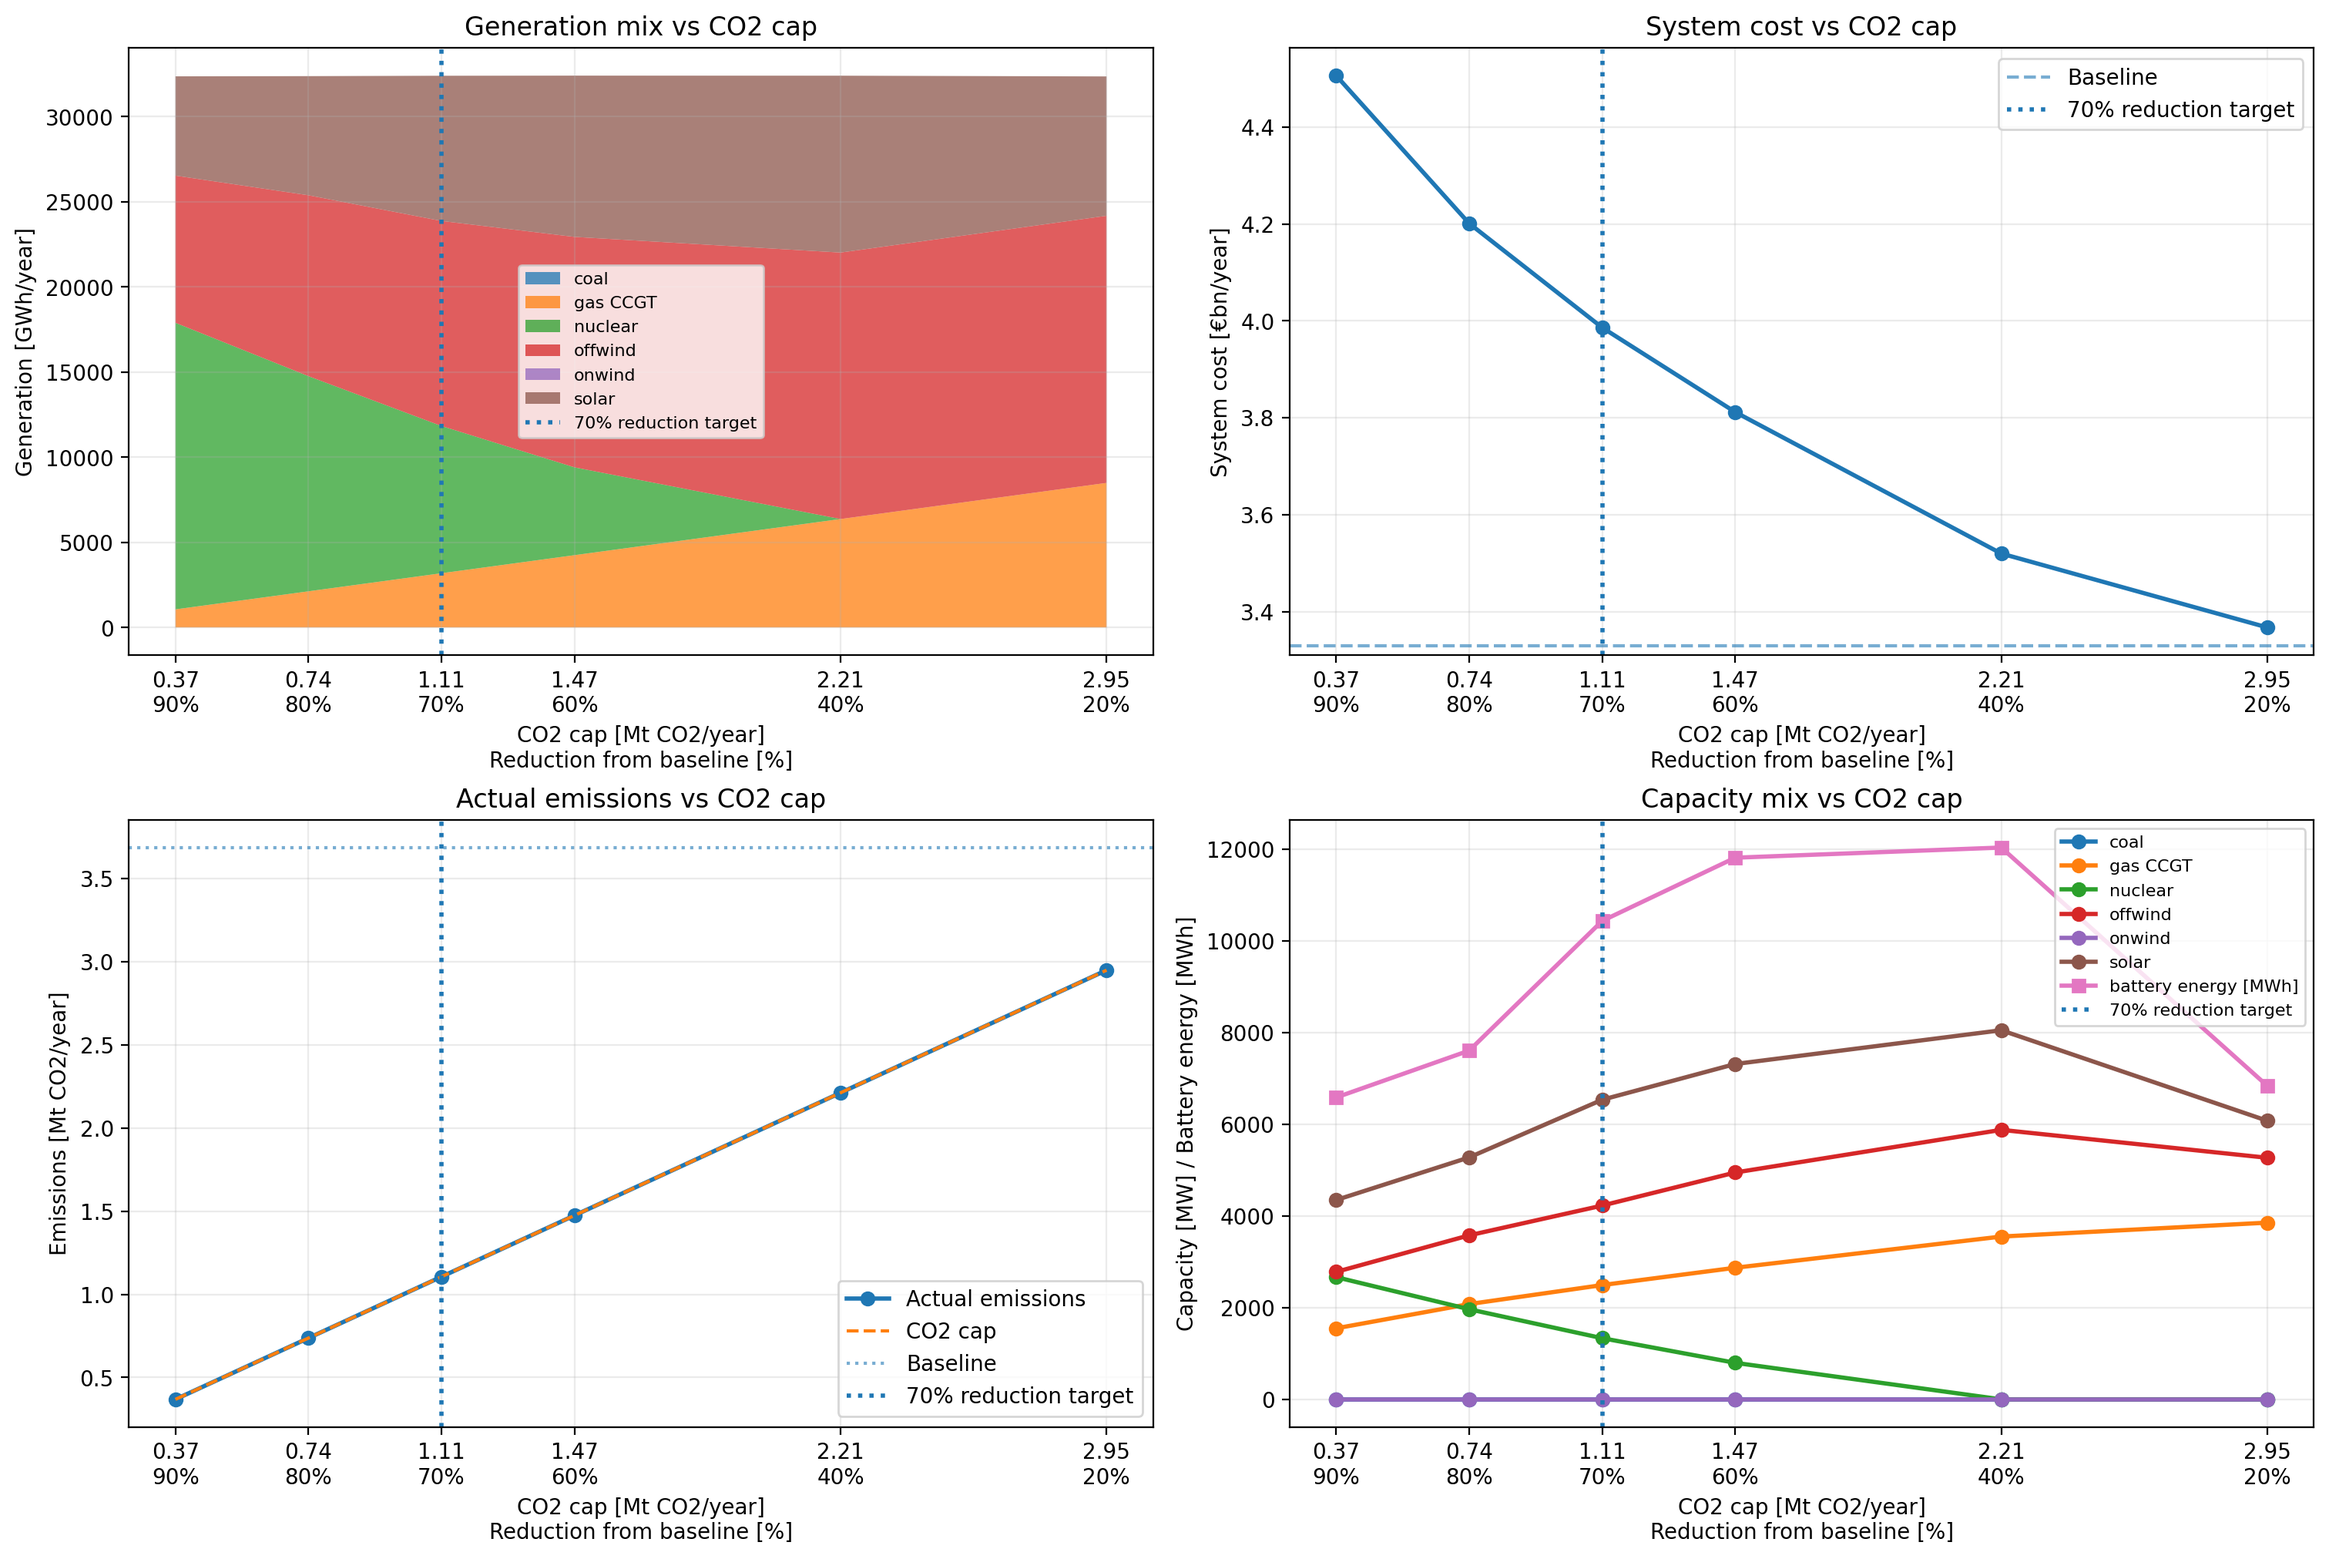
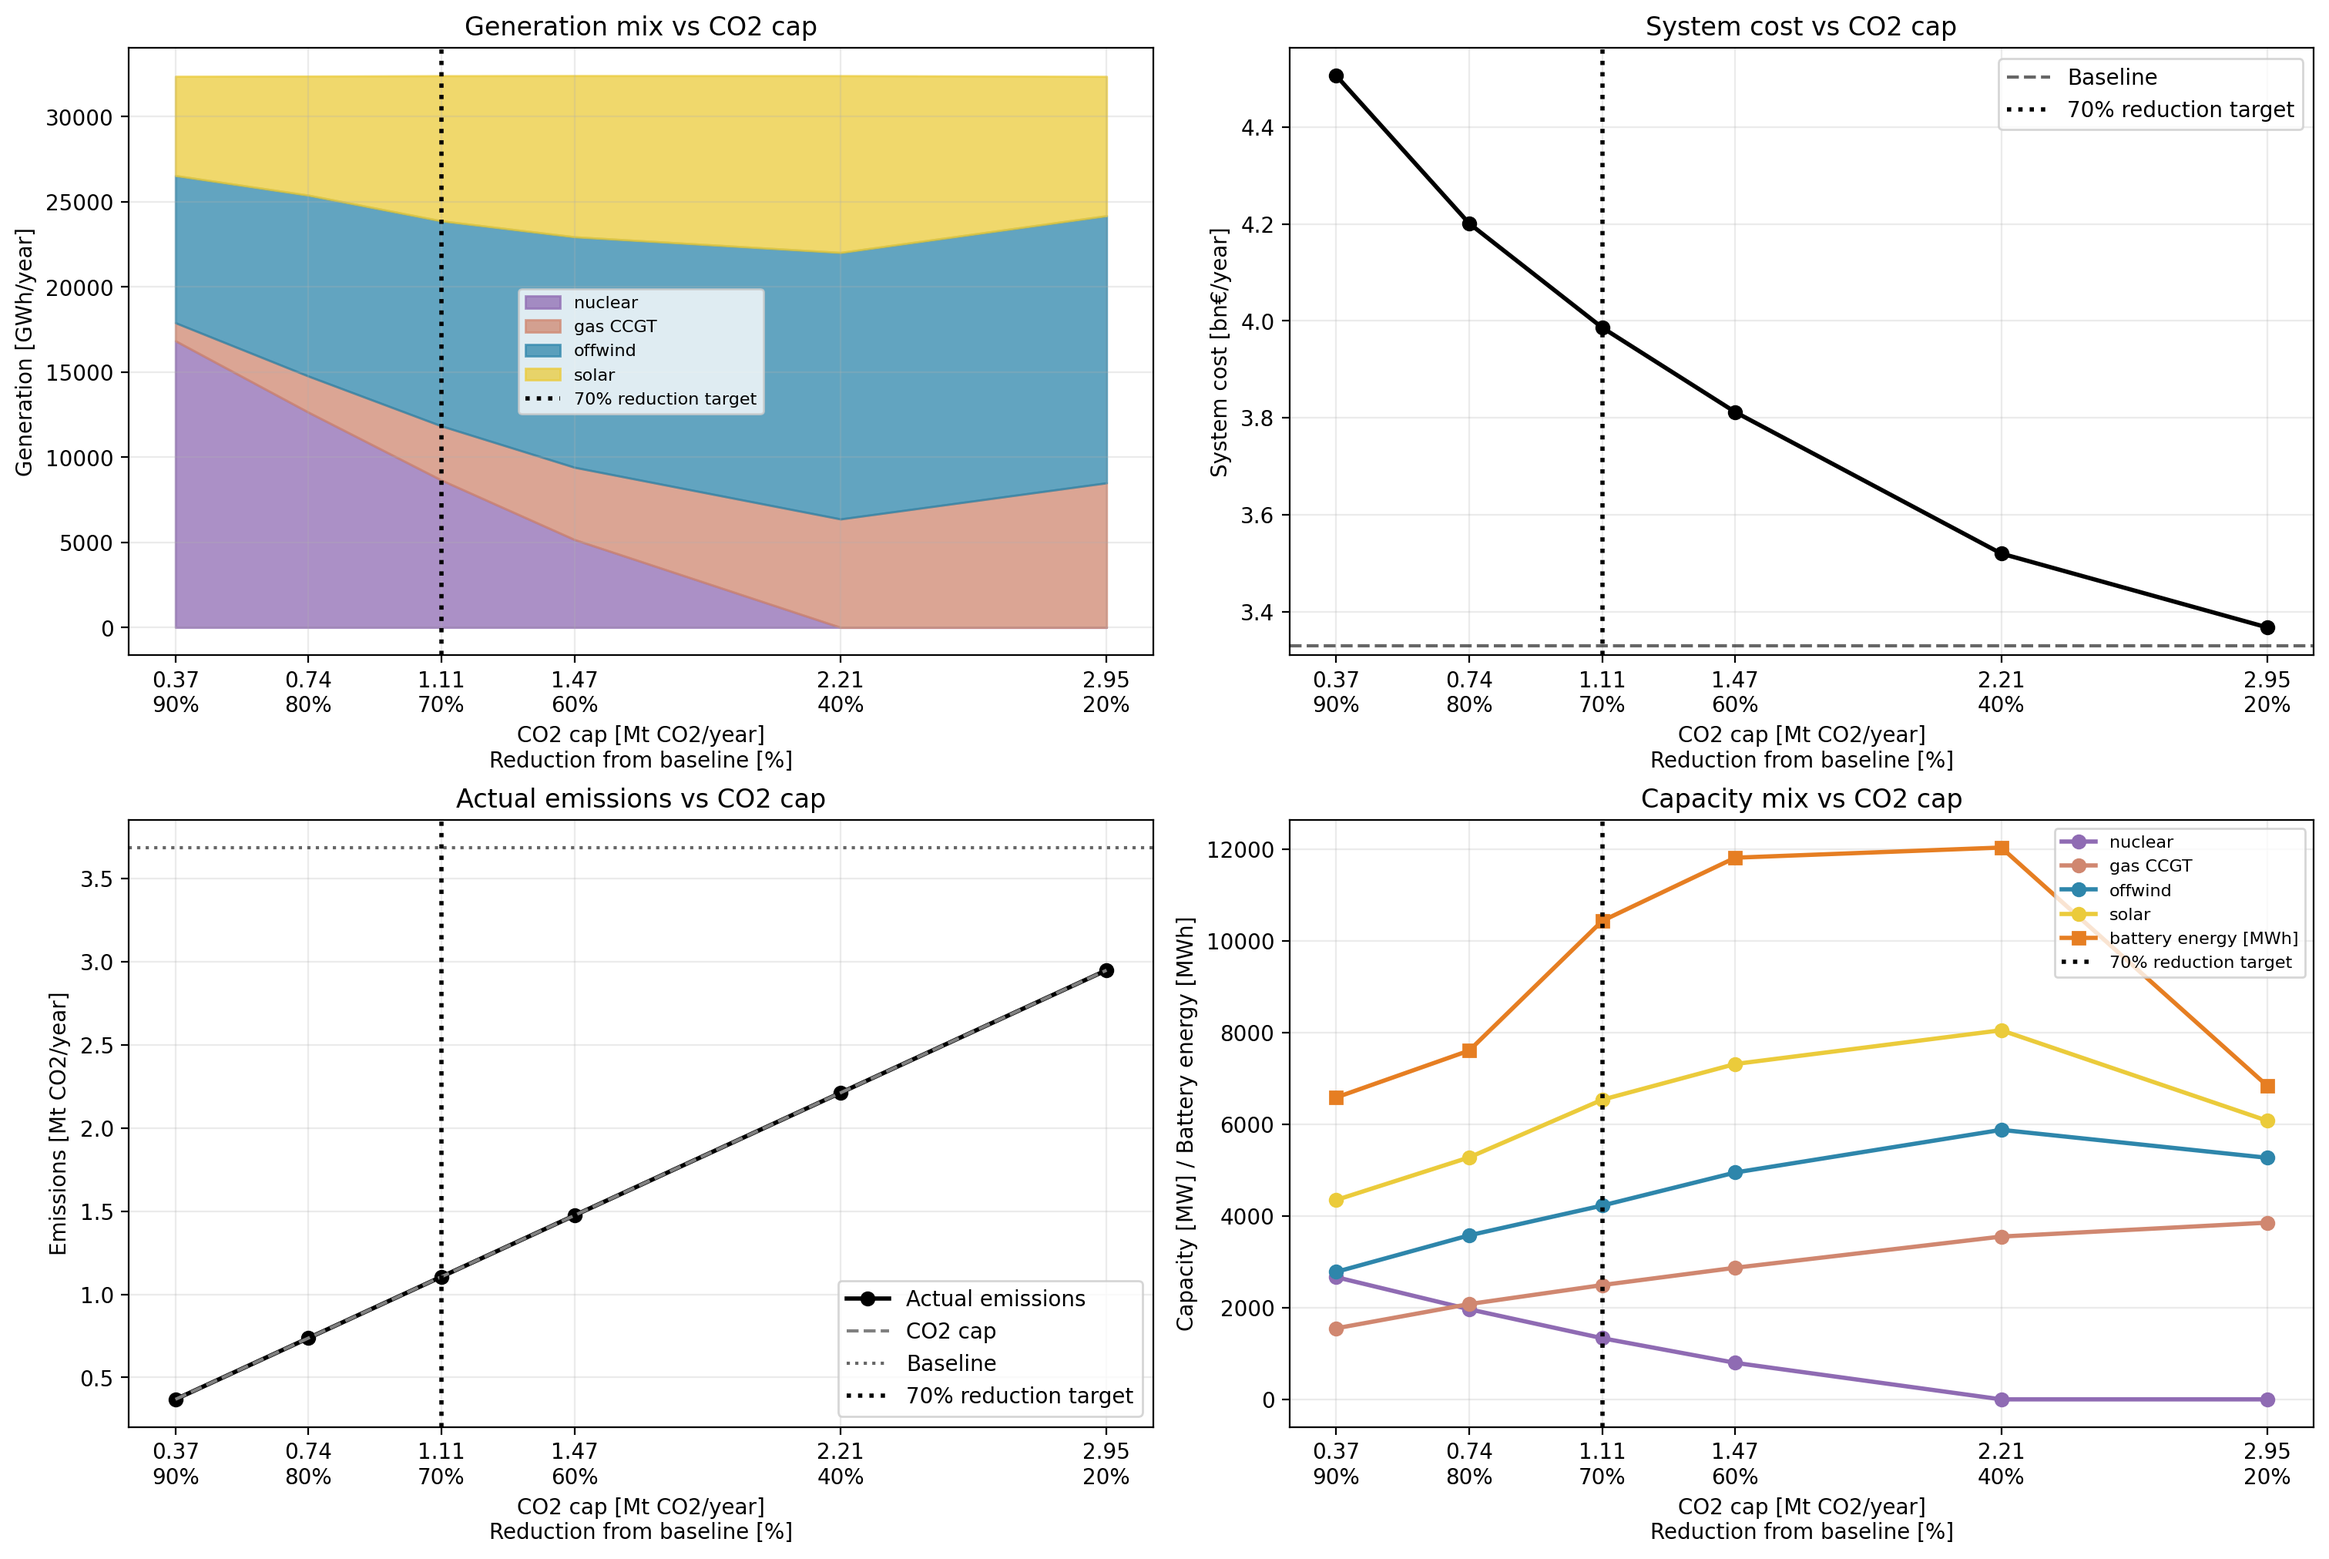
Changed colours on plots

diff --git a/analysis/analyze_co2_sensitivity.py b/analysis/analyze_co2_sensitivity.py
@@ -194,6 +194,22 @@ def carrier_order(columns):
     ]
 
 
+def get_carrier_colors(n: pypsa.Network, columns: pd.Index) -> list[str]:
+    """
+    Return colors for carriers based on n.carriers['color'].
+    """
+    fallback_color = "#999999"
+    colors = []
+
+    for carrier in columns:
+        if carrier in n.carriers.index and pd.notna(n.carriers.at[carrier, "color"]):
+            colors.append(n.carriers.at[carrier, "color"])
+        else:
+            colors.append(fallback_color)
+
+    return colors
+
+
 def plot_weekly_dispatch(
     n: pypsa.Network,
     week_start: str = "2016-01-01",
@@ -212,26 +228,36 @@ def plot_weekly_dispatch(
         return
 
     dispatch = n.generators_t.p.loc[week_snapshots].copy()
-
     carrier_dispatch = pd.DataFrame(index=dispatch.index)
 
     for carrier in n.generators.carrier.unique():
         gens = n.generators.index[n.generators.carrier == carrier]
-
         available_gens = [g for g in gens if g in dispatch.columns]
 
         if available_gens:
-            carrier_dispatch[carrier] = dispatch[available_gens].clip(lower=0).sum(axis=1)
+            carrier_dispatch[carrier] = (
+                dispatch[available_gens]
+                .clip(lower=0)
+                .sum(axis=1)
+            )
 
-    carrier_dispatch = carrier_dispatch.loc[:, carrier_dispatch.sum() > 0]
+    carrier_dispatch = carrier_dispatch.loc[:, carrier_dispatch.sum() > 1e-6]
     carrier_dispatch = carrier_dispatch[carrier_order(carrier_dispatch.columns)]
 
     if carrier_dispatch.empty:
         print("No dispatch data to plot.")
         return
 
+    colors = get_carrier_colors(n, carrier_dispatch.columns)
+
     fig, ax = plt.subplots(figsize=(13, 5))
-    carrier_dispatch.plot.area(ax=ax, stacked=True, linewidth=0)
+
+    carrier_dispatch.plot.area(
+        ax=ax,
+        stacked=True,
+        linewidth=0,
+        color=colors,
+    )
 
     ax.set_title(title)
     ax.set_ylabel("Dispatch [MW]")
@@ -241,7 +267,14 @@ def plot_weekly_dispatch(
 
     plt.tight_layout()
 
-    filename = title.lower().replace(" ", "_").replace("%", "pct").replace(".", "") + ".png"
+    filename = (
+        title.lower()
+        .replace(" ", "_")
+        .replace("%", "pct")
+        .replace(".", "")
+        + ".png"
+    )
+
     fig.savefig(output_dir / filename, dpi=200, bbox_inches="tight")
     plt.close(fig)
 
@@ -391,36 +424,54 @@ def run_co2_sensitivity_analysis(
     return results_df, cost_data, n_baseline
 
 
-def plot_co2_sensitivity(results_df: pd.DataFrame, output_dir: Path = OUTPUT_DIR):
+def plot_co2_sensitivity(
+    results_df: pd.DataFrame,
+    n_baseline: pypsa.Network,
+    output_dir: Path = OUTPUT_DIR,
+):
+    output_dir = Path(output_dir)
+    output_dir.mkdir(parents=True, exist_ok=True)
+
     plot_df = results_df[np.isfinite(results_df["co2_cap_mt"])].copy()
 
-    # Add reduction labels
-    plot_df["co2_reduction_pct"] = (1 - plot_df["co2_cap_fraction"]) * 100
+    plot_df["co2_reduction_pct"] = (
+        1 - plot_df["co2_cap_fraction"]
+    ) * 100
 
     plot_df = plot_df.sort_values("co2_cap_mt")
 
     baseline = results_df[results_df["co2_cap_fraction"] == 1.0].iloc[0]
 
-    target_fraction = 0.30   # 70% reduction means 30% of baseline emissions remain
+    target_fraction = 0.30
     target_cap_mt = baseline["actual_emissions_mt"] * target_fraction
 
-    fig, axes = plt.subplots(2, 2, figsize=(15, 10), constrained_layout=True)
+    fig, axes = plt.subplots(
+        2,
+        2,
+        figsize=(15, 10),
+        constrained_layout=True,
+    )
 
     def format_x_axis(ax):
         ax.set_xlabel("CO2 cap [Mt CO2/year]\nReduction from baseline [%]")
+
         ticks = plot_df["co2_cap_mt"].values
         labels = [
             f"{cap:.2f}\n{red:.0f}%"
-            for cap, red in zip(plot_df["co2_cap_mt"], plot_df["co2_reduction_pct"])
+            for cap, red in zip(
+                plot_df["co2_cap_mt"],
+                plot_df["co2_reduction_pct"],
+            )
         ]
+
         ax.set_xticks(ticks)
         ax.set_xticklabels(labels, rotation=0)
 
-        # 70% reduction target line
         ax.axvline(
             target_cap_mt,
             linestyle=":",
             linewidth=2,
+            color="black",
             label="70% reduction target",
         )
 
@@ -434,11 +485,27 @@ def plot_co2_sensitivity(results_df: pd.DataFrame, output_dir: Path = OUTPUT_DIR
         if c.startswith("generation_") and c.endswith("_mwh")
     ]
 
+    generation_carriers = [
+        c.replace("generation_", "").replace("_mwh", "")
+        for c in generation_cols
+    ]
+
+    generation_carriers = carrier_order(generation_carriers)
+
     bottom = np.zeros(len(plot_df))
 
-    for col in sorted(generation_cols):
-        carrier = col.replace("generation_", "").replace("_mwh", "")
+    for carrier in generation_carriers:
+        col = f"generation_{carrier}_mwh"
+
+        if col not in plot_df.columns:
+            continue
+
         values = plot_df[col].fillna(0).values / 1000
+
+        if np.all(values <= 1e-6):
+            continue
+
+        color = get_carrier_colors(n_baseline, pd.Index([carrier]))[0]
 
         ax.fill_between(
             plot_df["co2_cap_mt"],
@@ -446,6 +513,7 @@ def plot_co2_sensitivity(results_df: pd.DataFrame, output_dir: Path = OUTPUT_DIR
             bottom + values,
             alpha=0.75,
             label=carrier,
+            color=color,
         )
 
         bottom += values
@@ -466,17 +534,19 @@ def plot_co2_sensitivity(results_df: pd.DataFrame, output_dir: Path = OUTPUT_DIR
         plot_df["system_cost_eur"] / 1e9,
         marker="o",
         linewidth=2,
+        color="black",
     )
 
     ax.axhline(
         baseline["system_cost_eur"] / 1e9,
         linestyle="--",
         alpha=0.6,
+        color="black",
         label="Baseline",
     )
 
     ax.set_title("System cost vs CO2 cap")
-    ax.set_ylabel("System cost [€bn/year]")
+    ax.set_ylabel("System cost [bn€/year]")
     ax.grid(alpha=0.25)
     format_x_axis(ax)
     ax.legend()
@@ -491,6 +561,7 @@ def plot_co2_sensitivity(results_df: pd.DataFrame, output_dir: Path = OUTPUT_DIR
         plot_df["actual_emissions_mt"],
         marker="o",
         linewidth=2,
+        color="black",
         label="Actual emissions",
     )
 
@@ -498,6 +569,7 @@ def plot_co2_sensitivity(results_df: pd.DataFrame, output_dir: Path = OUTPUT_DIR
         plot_df["co2_cap_mt"],
         plot_df["co2_cap_mt"],
         linestyle="--",
+        color="gray",
         label="CO2 cap",
     )
 
@@ -505,9 +577,10 @@ def plot_co2_sensitivity(results_df: pd.DataFrame, output_dir: Path = OUTPUT_DIR
         baseline["actual_emissions_mt"],
         linestyle=":",
         alpha=0.6,
+        color="black",
         label="Baseline",
     )
-
+    
     ax.set_title("Actual emissions vs CO2 cap")
     ax.set_ylabel("Emissions [Mt CO2/year]")
     ax.grid(alpha=0.25)
@@ -524,25 +597,52 @@ def plot_co2_sensitivity(results_df: pd.DataFrame, output_dir: Path = OUTPUT_DIR
         if c.startswith("capacity_") and c.endswith("_mw")
     ]
 
-    for col in sorted(capacity_cols):
-        carrier = col.replace("capacity_", "").replace("_mw", "")
+    capacity_carriers = [
+        c.replace("capacity_", "").replace("_mw", "")
+        for c in capacity_cols
+    ]
+
+    capacity_carriers = carrier_order(capacity_carriers)
+
+    for carrier in capacity_carriers:
+        col = f"capacity_{carrier}_mw"
+
+        if col not in plot_df.columns:
+            continue
+
+        values = plot_df[col].fillna(0).values
+
+        if np.all(values <= 1e-6):
+            continue
+
+        color = get_carrier_colors(n_baseline, pd.Index([carrier]))[0]
 
         ax.plot(
             plot_df["co2_cap_mt"],
-            plot_df[col].fillna(0),
+            values,
             marker="o",
             linewidth=2,
             label=carrier,
+            color=color,
         )
 
     if "battery_energy_mwh" in plot_df.columns:
-        ax.plot(
-            plot_df["co2_cap_mt"],
-            plot_df["battery_energy_mwh"].fillna(0),
-            marker="s",
-            linewidth=2,
-            label="battery energy [MWh]",
-        )
+        values = plot_df["battery_energy_mwh"].fillna(0).values
+
+        if np.any(values > 1e-6):
+            battery_color = get_carrier_colors(
+                n_baseline,
+                pd.Index(["battery"]),
+            )[0]
+
+            ax.plot(
+                plot_df["co2_cap_mt"],
+                values,
+                marker="s",
+                linewidth=2,
+                label="battery energy [MWh]",
+                color=battery_color,
+            )
 
     ax.set_title("Capacity mix vs CO2 cap")
     ax.set_ylabel("Capacity [MW] / Battery energy [MWh]")
@@ -636,7 +736,7 @@ def main():
 
     file_paths = {
         "cost_file": f"Data/costs_{financial_parameters['year']}.csv",
-        "timeseries_file": "Data\\time_series_60min_singleindex_filtered_2015-2020.csv",
+        "timeseries_file": "Data//time_series_60min_singleindex_filtered_2015-2020.csv",
     }
 
     results_df, cost_data, n_baseline = run_co2_sensitivity_analysis(
@@ -652,7 +752,11 @@ def main():
 
     print(f"\nSaved results to {OUTPUT_DIR / 'co2_sensitivity_results.csv'}")
 
-    plot_co2_sensitivity(results_df, OUTPUT_DIR)
+    plot_co2_sensitivity(
+        results_df=results_df,
+        n_baseline=n_baseline,
+        output_dir=OUTPUT_DIR,
+    )
 
     print_summary(
         results_df=results_df,
